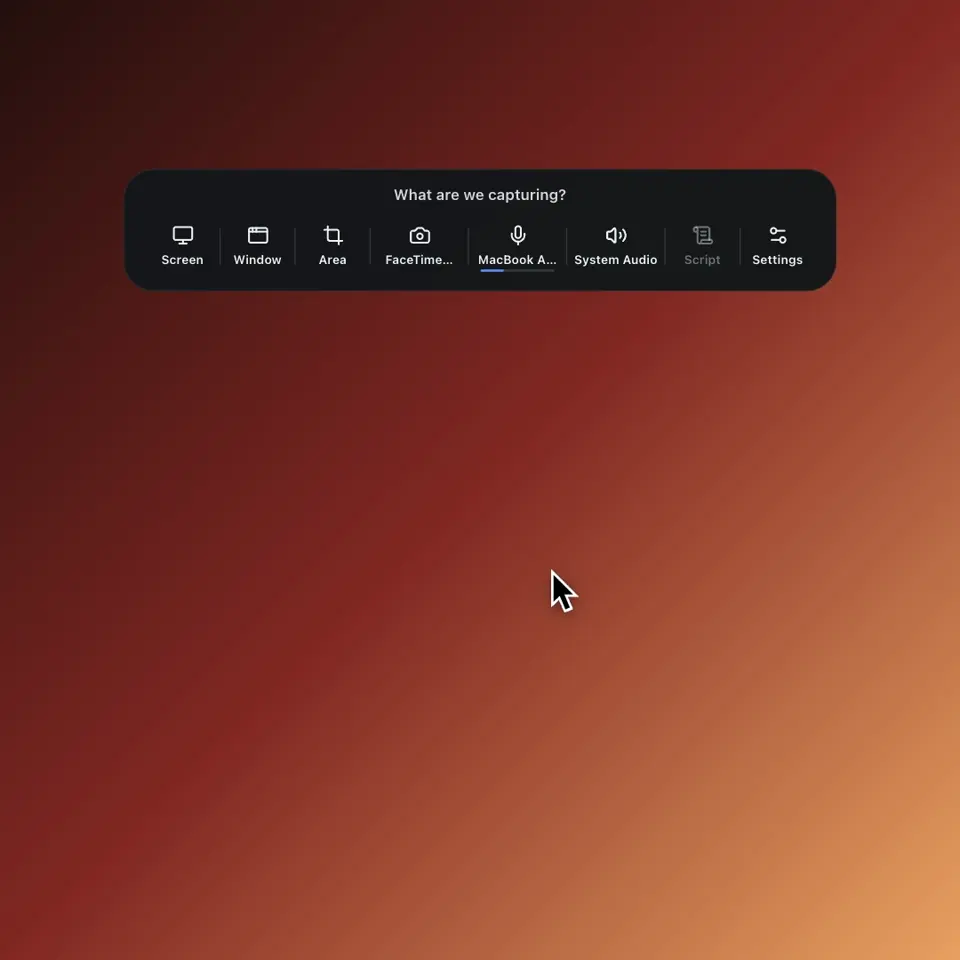
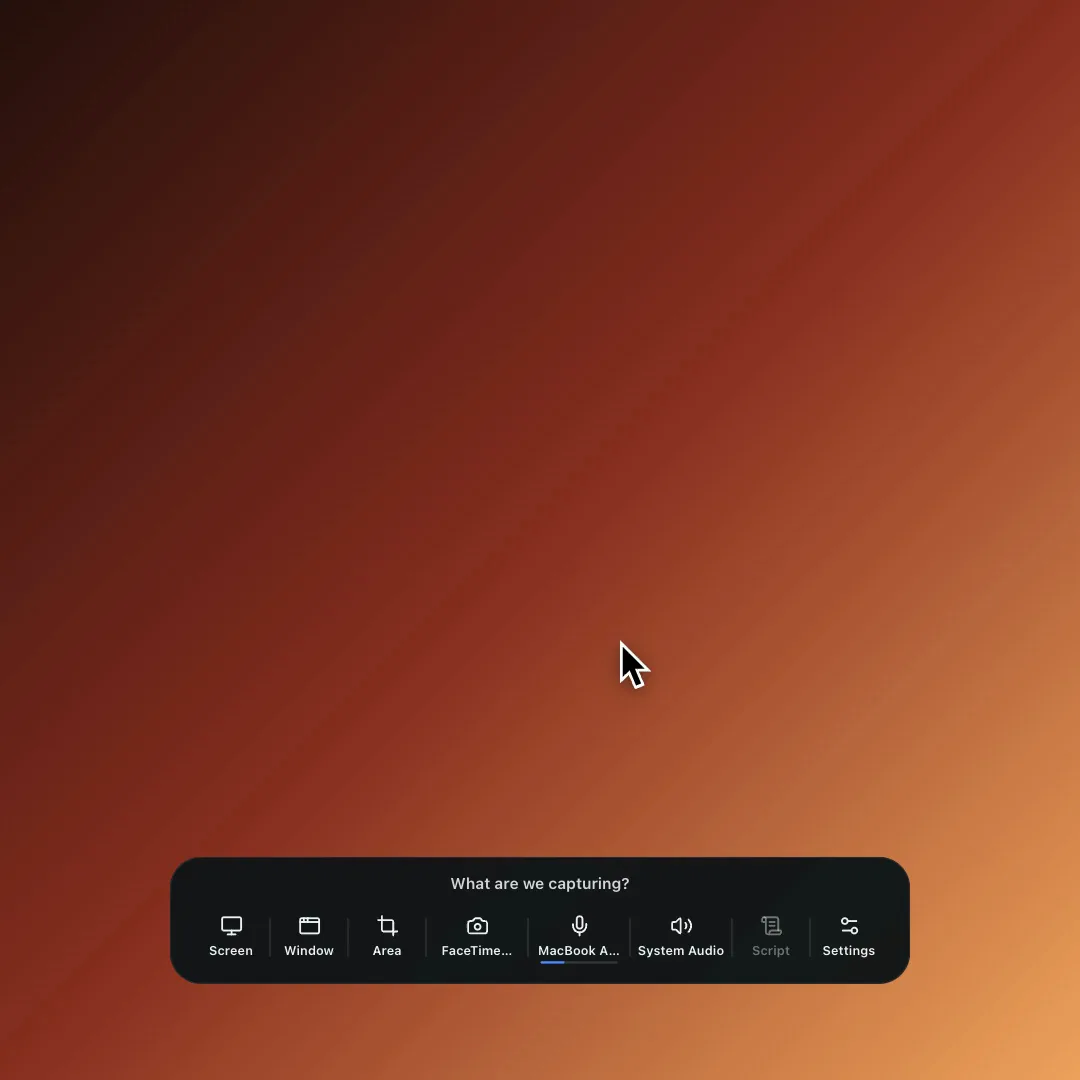
Update .gitignore to include local video files, enhance video accessibility description in index.html, adjust max-width for video elements in site.css, and remove obsolete compare/index.html file.

Changed region(s): [[0.125, 0.1562, 0.875, 0.3125], [0.1562, 0.7812, 0.8438, 0.9375]]

diff --git a/site.css b/site.css
@@ -220,8 +220,9 @@ p { text-wrap: pretty; }
   background: var(--acc);
 }
 
+/* every demo video renders as an identical square: the width of one card column */
 .hero__stage {
-  max-width: 720px;
+  max-width: calc((100% - 24px) / 2);
   margin: clamp(40px, 6vw, 64px) auto 0;
 }
 
@@ -243,7 +244,7 @@ p { text-wrap: pretty; }
 }
 
 .vid--wide {
-  max-width: 700px;
+  max-width: calc((100% - 24px) / 2);
   margin: 0 auto;
 }
 
@@ -613,6 +614,7 @@ footer {
 @media (max-width: 900px) {
   .cards { grid-template-columns: 1fr; }
   .card { max-width: 560px; margin: 0 auto; width: 100%; }
+  .hero__stage, .vid--wide { max-width: 560px; }
   .how__grid { grid-template-columns: 1fr 1fr; }
   .foot-grid { grid-template-columns: 1fr 1fr; }
 }

diff --git a/index.html b/index.html
@@ -214,7 +214,7 @@
           <div class="card__media">
             <video data-src="videos/demos/record-anything.mp4" poster="img/demos/record-anything.webp"
               muted playsinline loop preload="none" width="1080" height="1080"
-              aria-label="The Autocuts recorder pill on a desktop, with the cursor moving across the capture source options"></video>
+              aria-label="The Autocuts recorder pill at the bottom of a desktop; the cursor opens the capture frame for Screen, Window and Area, then the camera preview and the device menus"></video>
           </div>
           <div class="card__body">
             <div class="micro">Capture</div>
